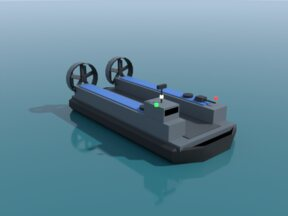
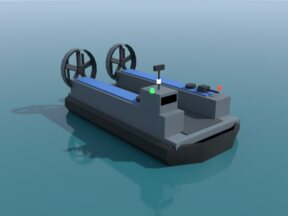
NV1: cameos re-rendered from the final kit; shorter Shipyard refusal hint
Claude-Session: https://claude.ai/code/session_01AfPbHWRnbNkqsFSA7HPjiC

diff --git a/web/src/game/game.ts b/web/src/game/game.ts
@@ -1742,7 +1742,7 @@ export class Game {
     const touch = this.mouse.type === 'touch';
     const html = ok
       ? `<b>Shipyard</b>: half in the sea, half on the shore. ${touch ? 'Tap it again to build.' : 'Click to build.'}`
-      : `<b>Shipyard</b>: ${why}. It must stand half in the sea, half on buildable shore, by open sea.`;
+      : `<b>Shipyard</b>: ${why}. Place it across the shoreline, by open sea.`;
     if (html !== this.shipHint) {
       this.shipHint = html;
       this.hud.showHint(html);
